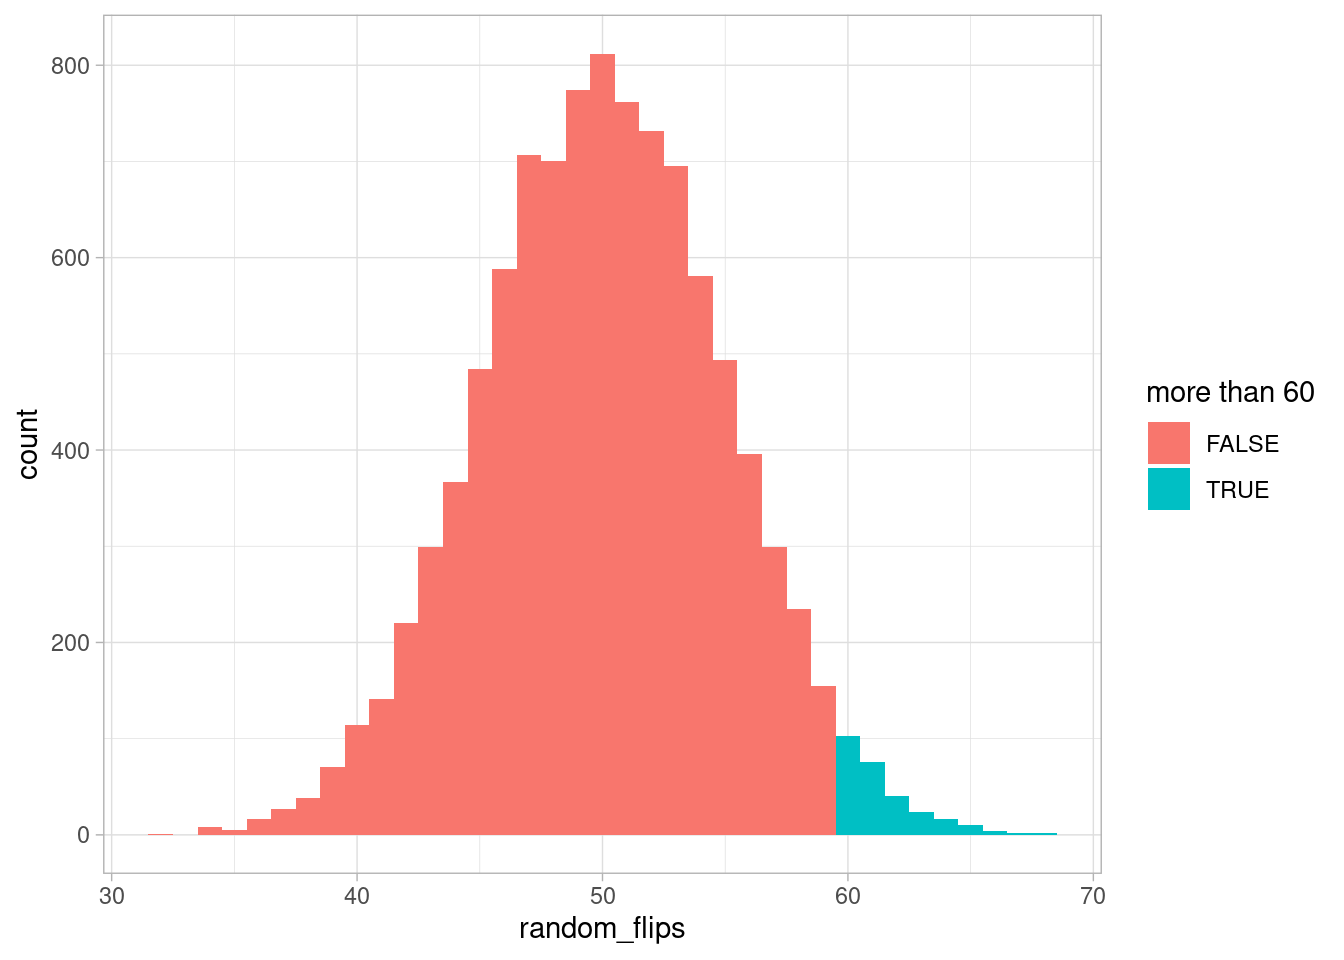
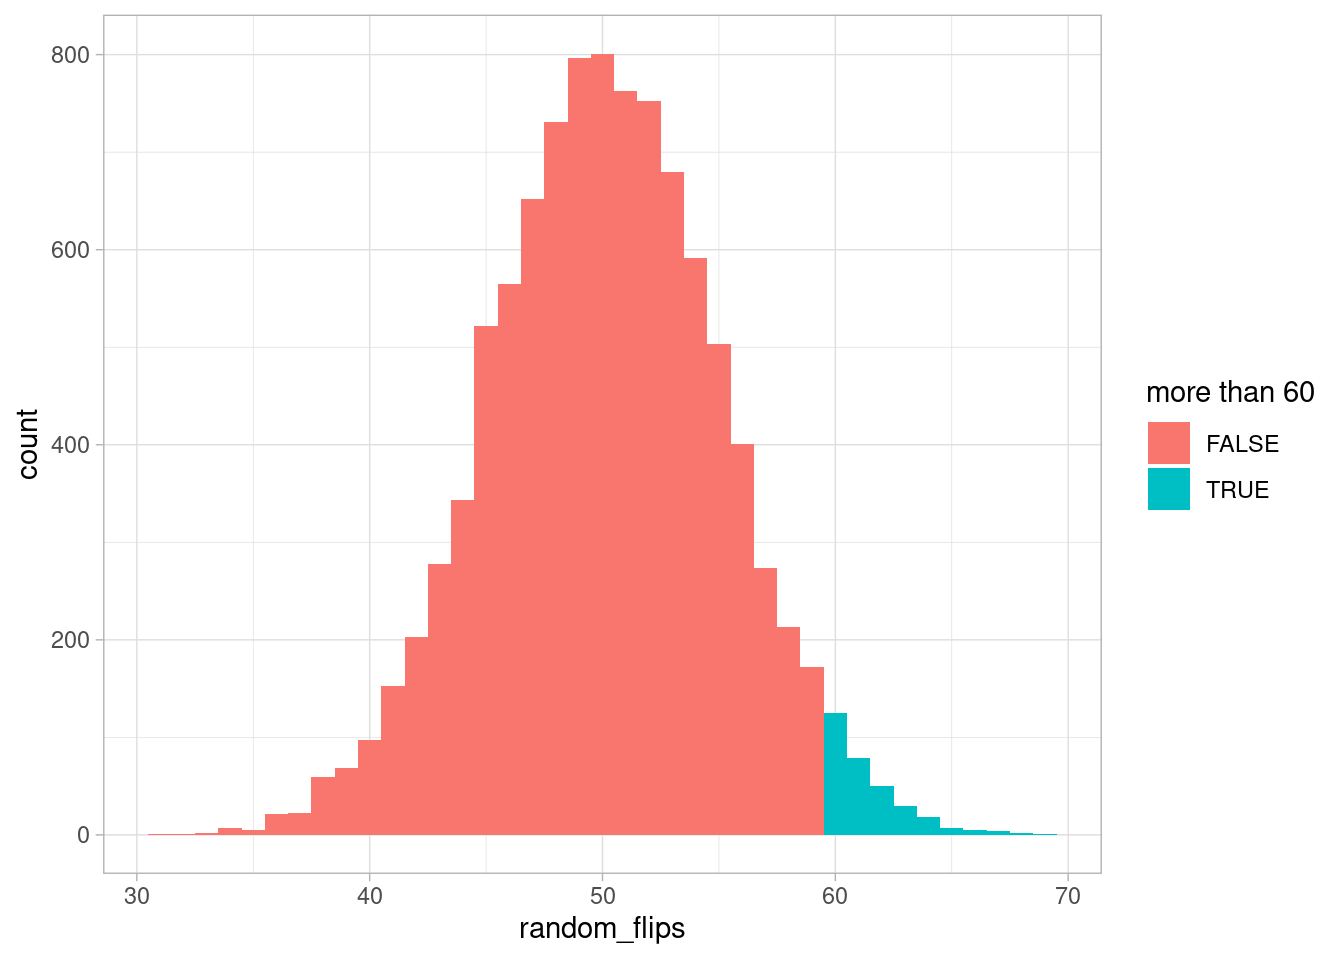
quito P

diff --git a/_site/posts/2023-06-24-bayes-y-monedas/index.html b/_site/posts/2023-06-24-bayes-y-monedas/index.html
@@ -285,13 +285,13 @@ probability of success
 <p>Primero, construyes una tabla en la que tienes el número de caras obtenido en función de la probabilidad de obtener cara.</p>
 <div class="cell">
 <div class="cell-output cell-output-stdout">
-<pre><code>    p_priori number_of_heads
-1 0.01175053               2
-2 0.05094345               7
-3 0.75505933              79
-4 0.04642716               5
-5 0.17039875              15
-6 0.87681289              88</code></pre>
+<pre><code>   p_priori number_of_heads
+1 0.9526736              97
+2 0.3576143              31
+3 0.9580267              96
+4 0.8122705              78
+5 0.2026850              28
+6 0.9780546             100</code></pre>
 </div>
 </div>
 <p>En esa tabla podemos quedarnos solo con los casos en los que obtienes 60 caras. Y en esos casos observas la probabilidad de obtener cara.</p>
@@ -305,7 +305,7 @@ probability of success
 <div class="cell">
 <div class="cell-output cell-output-stdout">
 <pre><code>   Min. 1st Qu.  Median    Mean 3rd Qu.    Max. 
- 0.4812  0.5671  0.6032  0.6019  0.6352  0.7008 </code></pre>
+ 0.4609  0.5642  0.5938  0.5924  0.6223  0.7104 </code></pre>
 </div>
 </div>
 <p>Esos números ya no siguen la distribución uniforme a priori de antes, en la que indicabas que no sabías nada de la moneda.</p>

diff --git a/_site/index.html b/_site/index.html
@@ -147,7 +147,7 @@ cookieconsent.run({
 
 <div class="quarto-listing quarto-listing-container-default" id="listing-listing">
 <div class="list quarto-listing-default">
-<div class="quarto-post image-right" data-index="0" data-categories="datos" data-listing-date-sort="1687557600000" data-listing-file-modified-sort="1687632882788" data-listing-reading-time-sort="3.59">
+<div class="quarto-post image-right" data-index="0" data-categories="datos" data-listing-date-sort="1687557600000" data-listing-file-modified-sort="1687633257641" data-listing-reading-time-sort="3.59">
 <div class="body">
 <a href="./posts/2023-06-24-bayes-y-monedas/index.html">
 <h3 class="no-anchor listing-title">
